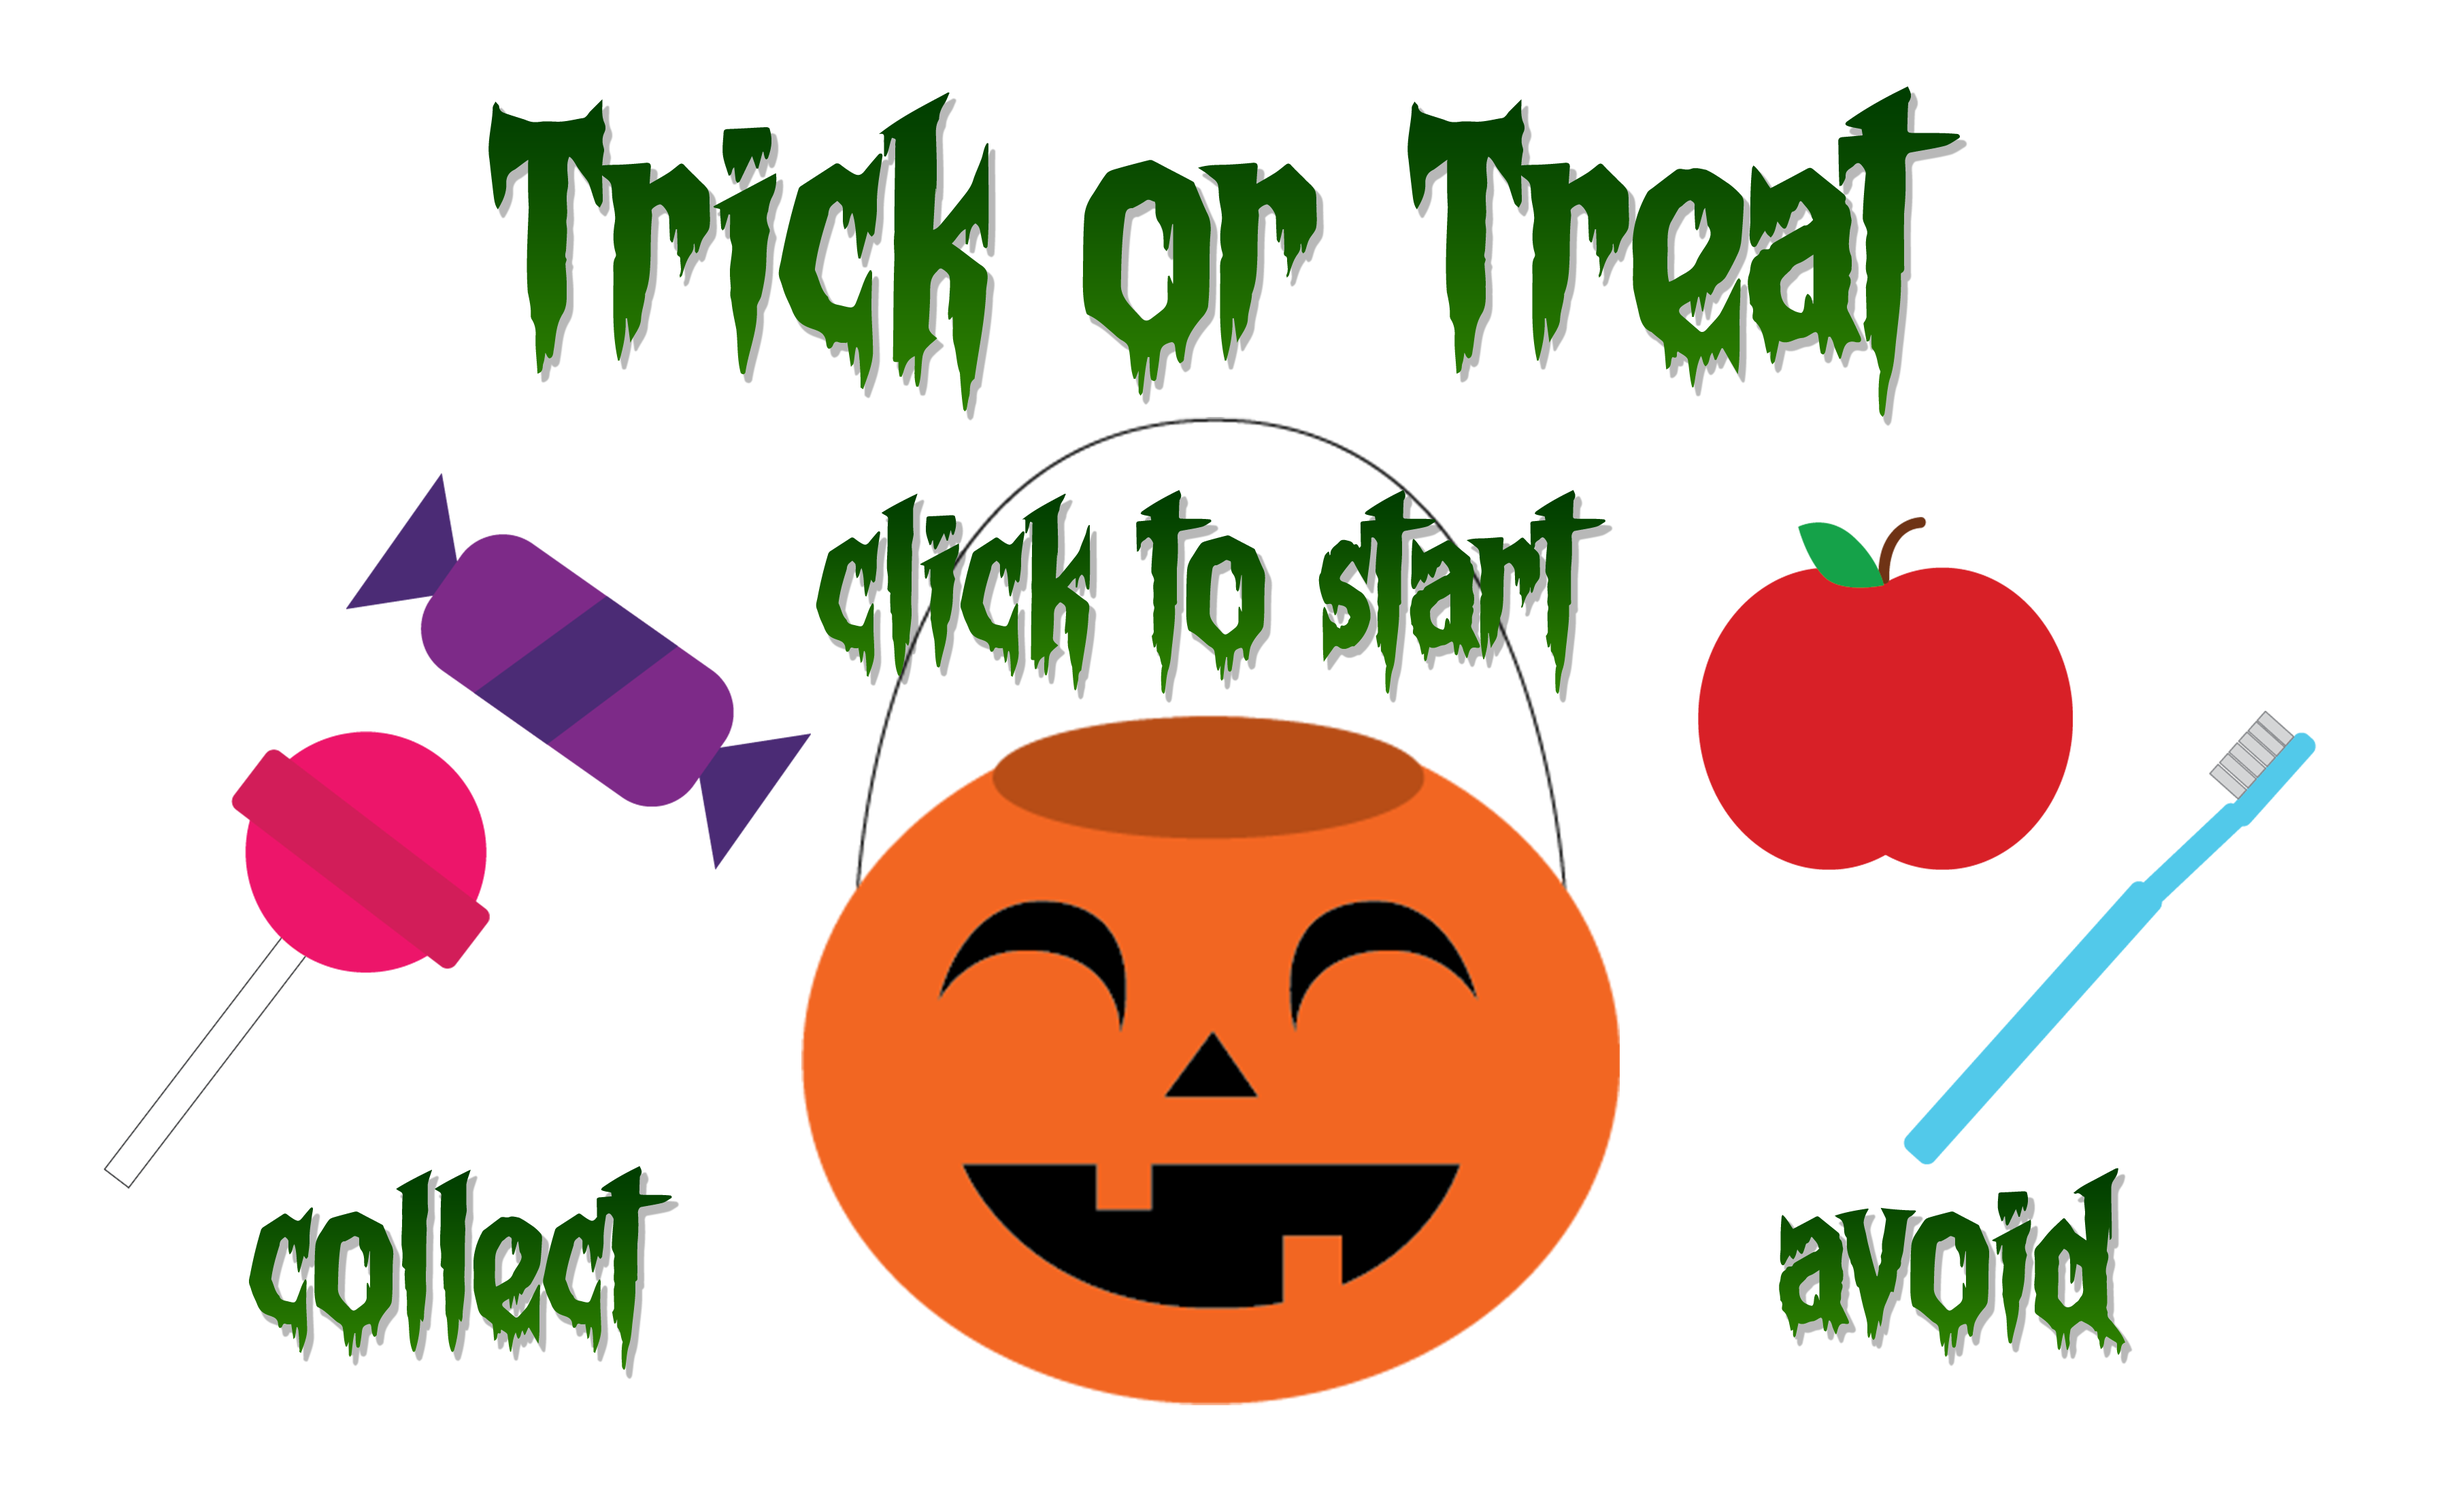
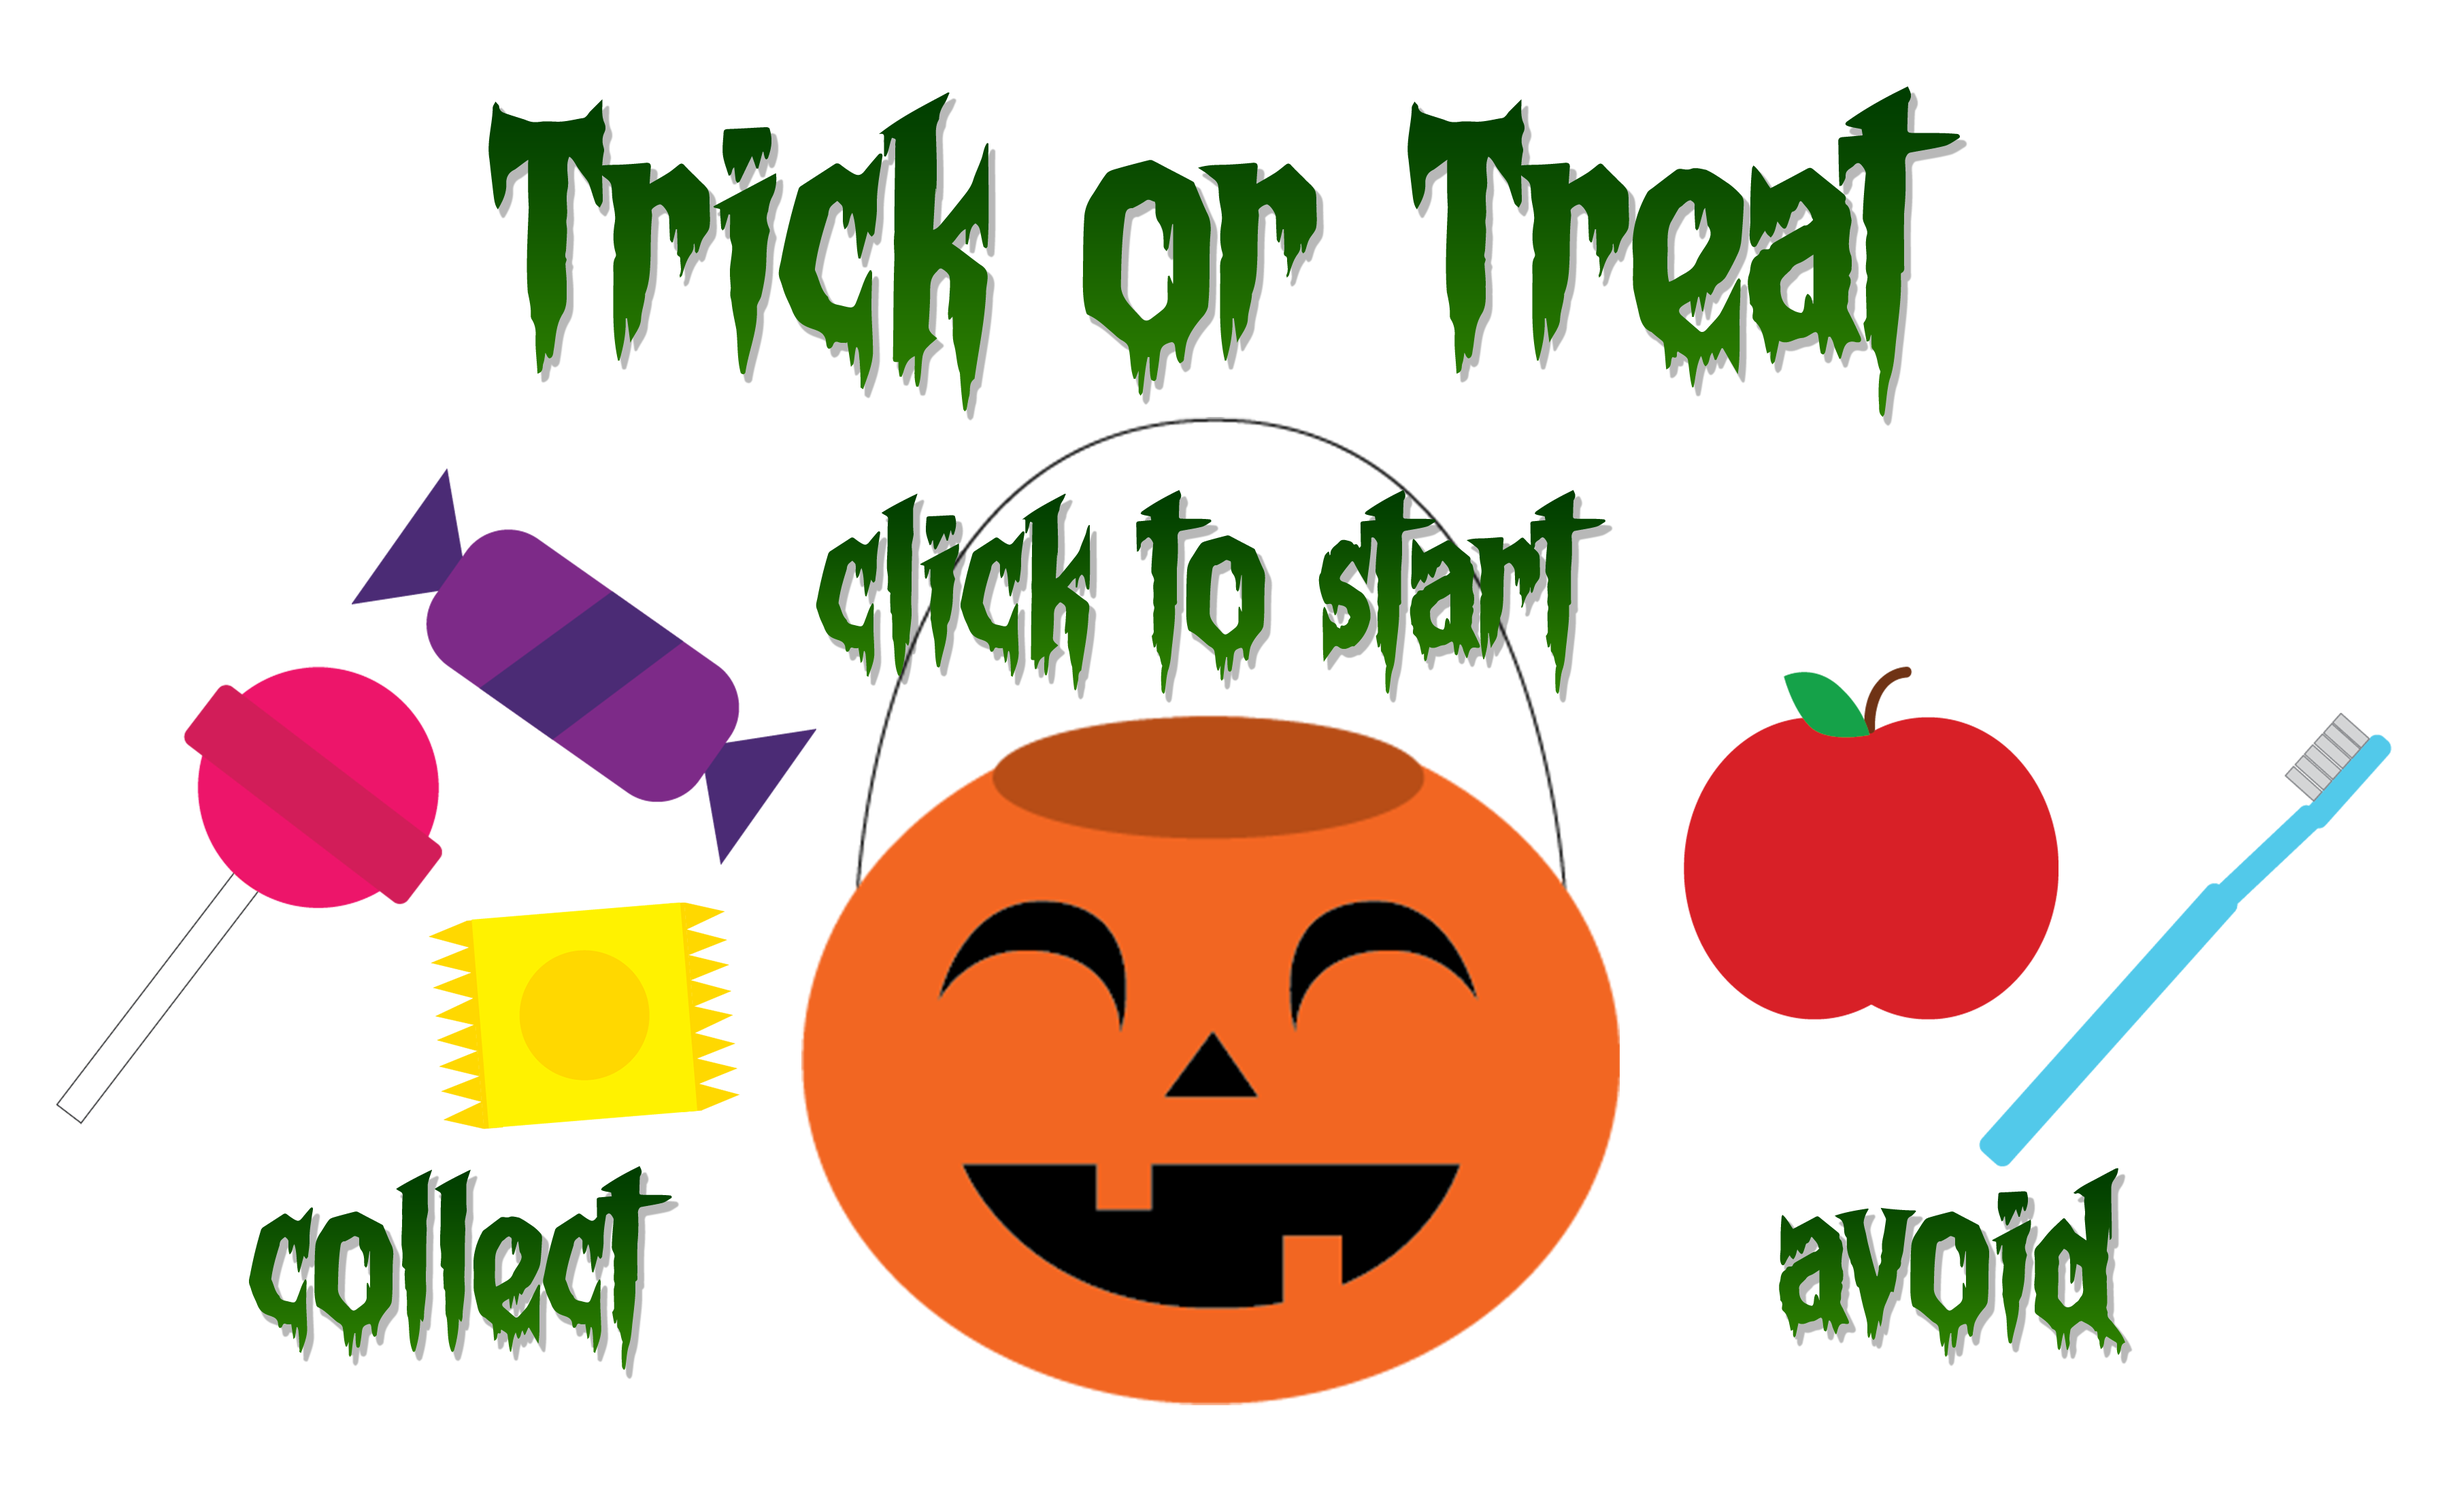
E4: Added end and start images

diff --git a/exercises/age-of-aquariums/js/script.js b/exercises/age-of-aquariums/js/script.js
@@ -15,6 +15,9 @@ let lollipopImage;
 let chocolateImage;
 let pumpkinImage;
 let bg;
+let startImage;
+let appleendImage;
+let brushendImage;
 
 // Our user, to move with the mouse
 let user = {
@@ -32,9 +35,12 @@ function preload() {
   pumpkinImage = loadImage("assets/images/pumpkin.png");
   appleImage = loadImage("assets/images/apple.png");
   brushImage = loadImage("assets/images/toothbrush.png");
+  startImage = loadImage("assets/images/start.png");
+  appleendImage = loadImage("assets/images/end1.png");
+  brushendImage = loadImage("assets/images/end2.png");
 }
 
-let state = `simulation`; // Can be: title, simulation, end1, end2
+let state = `title`; // Can be: title, simulation, end1, end2
 
 function setup() {
   createCanvas(windowWidth, windowHeight);
@@ -123,6 +129,28 @@ let candy3 = {
   speed: 2,
 }
 
+let start = {
+  x: 0,
+  y: 0,
+  width: 100,
+  height: 100,
+};
+
+let appleend = {
+  x: 0,
+  y: 0,
+  width: 100,
+  height: 100,
+};
+
+let brushend = {
+  x: 0,
+  y: 0,
+  width: 100,
+  height: 100,
+};
+
+
 function draw() {
   background(bg);
 
@@ -135,13 +163,13 @@ function draw() {
     end1();
   } else if (state === `end2`) {
     end2();
-  } else if (state === `end2`) {
-    end2();
+  } else if (state === `end3`) {
+    end3();
   }
 }
 
 function title() {
-
+  displayStart();
 }
 
 function simulation() {
@@ -160,13 +188,17 @@ function simulation() {
 
 
 function end1() {
-
+  displayEnd1();
 }
 
 function end2() {
   fill(255);
   textAlign(CENTER, CENTER);
   text(`Watch Yumi's Cells every`, width / 2, 385);
+}
+
+function end3() {
+  displayEnd3();
 }
 
 function makeCandy() {
@@ -378,4 +410,27 @@ function displayApple(apple) {
   push();
   image(appleImage, apple.x, apple.y, apple.width, apple.height);
   pop();
+}
+
+// Show start and end images
+function displayStart() {
+  image(startImage, start.x, start.y, windowWidth, windowHeight);
+}
+
+function displayEnd1() {
+  image(brushendImage, brushend.x, brushend.y, windowWidth, windowHeight);
+}
+
+function displayEnd2() {
+
+}
+
+function displayEnd3() {
+  image(appleendImage, appleend.x, appleend.y, windowWidth, windowHeight);
+}
+
+function mousePressed() {
+  if (state === `title`) {
+    state = `simulation`;
+  }
 }
